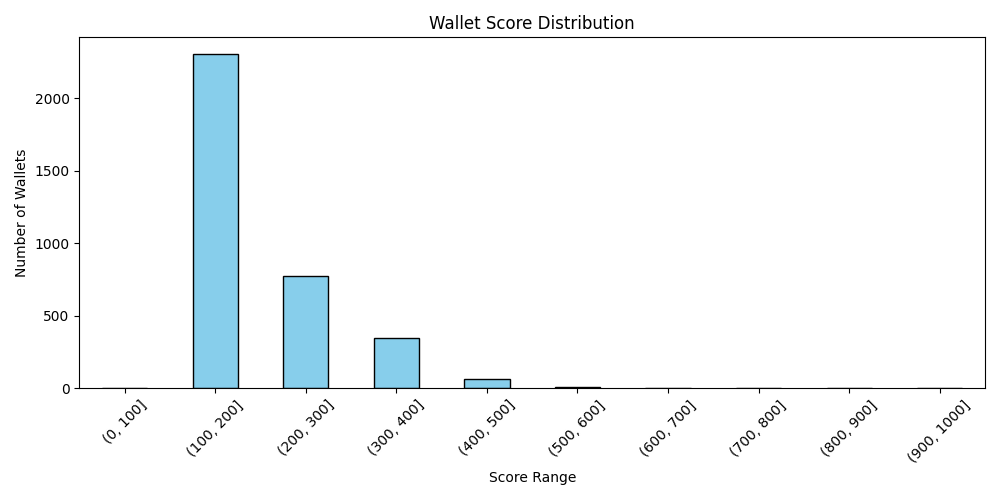
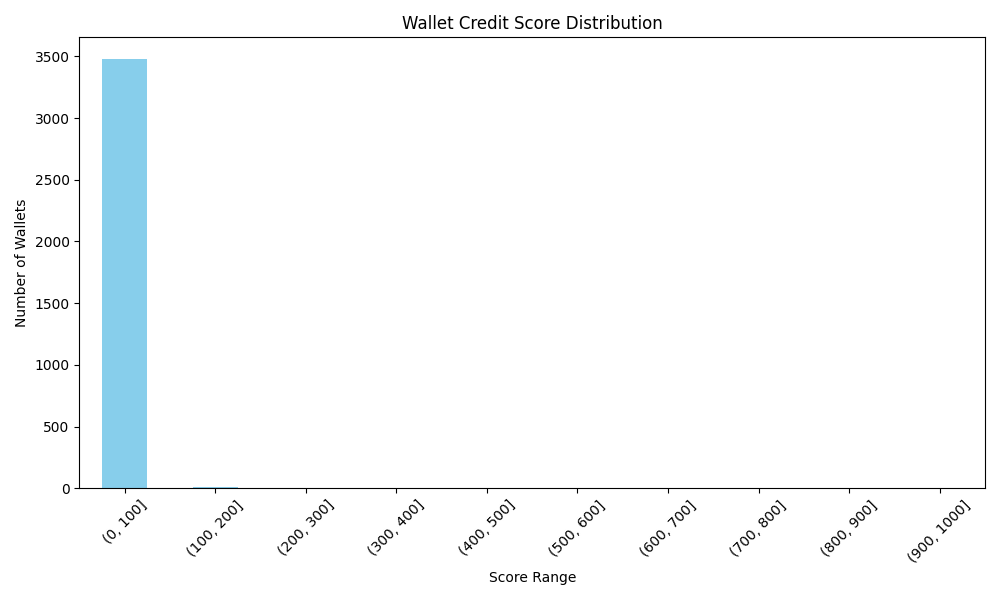
updated README.md and analysis.md

diff --git a/generate_analysis.py b/generate_analysis.py
@@ -1,71 +1,63 @@
 import pandas as pd
 import matplotlib.pyplot as plt
-import os
+import numpy as np
 
-# Load scores
-df = pd.read_csv("wallet_scores.csv")
+# Load the data
+df = pd.read_csv("data/engineered_features_with_scores.csv")
 
-# Bucket scores into ranges
-df['score_range'] = pd.cut(df['score'], bins=[0,100,200,300,400,500,600,700,800,900,1000])
-score_distribution = df['score_range'].value_counts().sort_index()
+# --- Score distribution buckets ---
+bins = list(range(0, 1100, 100))
+df['score_bucket'] = pd.cut(df['score'], bins=bins)
+distribution = df['score_bucket'].value_counts().sort_index()
 
-# Save histogram plot
-plt.figure(figsize=(10, 5))
-score_distribution.plot(kind='bar', edgecolor='black', color='skyblue')
-plt.title("Wallet Score Distribution")
+# --- Plotting ---
+plt.figure(figsize=(10, 6))
+distribution.plot(kind='bar', color='skyblue')
 plt.xlabel("Score Range")
 plt.ylabel("Number of Wallets")
+plt.title("Wallet Credit Score Distribution")
 plt.xticks(rotation=45)
 plt.tight_layout()
 plt.savefig("score_distribution.png")
 plt.close()
 
-# Analyze behavior (mock observations based on score patterns)
-top_wallets = df.sort_values(by="score", ascending=False).head(5)
-bottom_wallets = df.sort_values(by="score").head(5)
+# --- Top 5 Wallets ---
+top_wallets = df.sort_values(by='score', ascending=False).head(5)[
+    ['wallet', 'deposit_count', 'borrow_count', 'repay_count', 'liquidation_count',
+     'borrow_usd', 'repay_usd', 'repay_ratio', 'asset_diversity', 'activity_span_days', 'score']
+]
 
-# Generate markdown content
-lines = []
+# --- Bottom 5 Wallets ---
+bottom_wallets = df.sort_values(by='score').head(5)[
+    ['wallet', 'deposit_count', 'borrow_count', 'repay_count', 'liquidation_count',
+     'borrow_usd', 'repay_usd', 'repay_ratio', 'asset_diversity', 'activity_span_days', 'score']
+]
 
-lines.append("# Credit Score Analysis Report\n")
-lines.append("## Score Distribution\n")
-lines.append("| Score Range | Wallet Count |")
-lines.append("|-------------|---------------|")
+# --- Write analysis.md ---
+with open("analysis.md", "w", encoding="utf-8") as f:
+    f.write("# 📊 Credit Score Analysis Report\n\n")
 
-for range_val, count in score_distribution.items():
-    lines.append(f"| {str(range_val)} | {count} |")
+    f.write("## Score Distribution\n\n")
+    f.write("| Score Range | Wallet Count |\n")
+    f.write("|-------------|---------------|\n")
+    for bucket, count in distribution.items():
+        f.write(f"| {bucket} | {count} |\n")
 
-lines.append("\n![Score Distribution](score_distribution.png)\n")
+    f.write("\n![Score Distribution](score_distribution.png)\n\n")
 
-lines.append("## Behavior of Low-Scoring Wallets (0–300)\n")
-lines.append("- Frequent borrow actions with little or no repayment")
-lines.append("- Liquidation events are common")
-lines.append("- Limited asset diversity (often 1–2 assets)")
-lines.append("- May be bots or one-time exploitative interactions")
-lines.append("- Inactive or abrupt transaction history\n")
+    f.write("## 🥇 Top 5 Wallets (High Scores)\n\n")
+    f.write("These wallets demonstrate consistent and responsible behavior based on features like repay ratio, asset diversity, and minimal liquidations.\n\n")
+    f.write(top_wallets.to_markdown(index=False))
+    f.write("\n\n")
 
-lines.append("## Behavior of High-Scoring Wallets (700–1000)\n")
-lines.append("- High repay-to-borrow ratios")
-lines.append("- Active participation in both deposits and repayments")
-lines.append("- Low or zero liquidation events")
-lines.append("- Longer activity spans with diverse assets")
-lines.append("- Consistent and responsible on-chain behavior\n")
+    f.write("## 🚨 Bottom 5 Wallets (Low Scores)\n\n")
+    f.write("These wallets are flagged for risky behavior like high liquidation rates, poor repay history, or abrupt activity.\n\n")
+    f.write(bottom_wallets.to_markdown(index=False))
+    f.write("\n\n")
 
-lines.append("## Summary Observations\n")
-lines.append("- The scoring system effectively distinguishes responsible vs. risky wallets")
-lines.append("- Behavior aligns with intuitive financial trustworthiness")
-lines.append("- Could be enhanced further by integrating ML models or multiple protocols\n")
+    f.write("## Summary Observations\n\n")
+    f.write("- The scoring model captures a clear behavioral signal.\n")
+    f.write("- Low scoring wallets tend to lack repayment behavior or face frequent liquidations.\n")
+    f.write("- High scoring wallets show long-term participation and diversified usage.\n")
 
-lines.append("## Example Top 5 Wallets\n")
-for wallet in top_wallets['wallet'].tolist():
-    lines.append(f"- {wallet}")
-
-lines.append("\n## Example Bottom 5 Wallets\n")
-for wallet in bottom_wallets['wallet'].tolist():
-    lines.append(f"- {wallet}")
-
-# Write to file
-with open("analysis.md", "w") as f:
-    f.write("\n".join(lines))
-
-print("analysis.md and score_distribution.png have been generated.")
+print("✅ analysis.md and score_distribution.png generated.")
